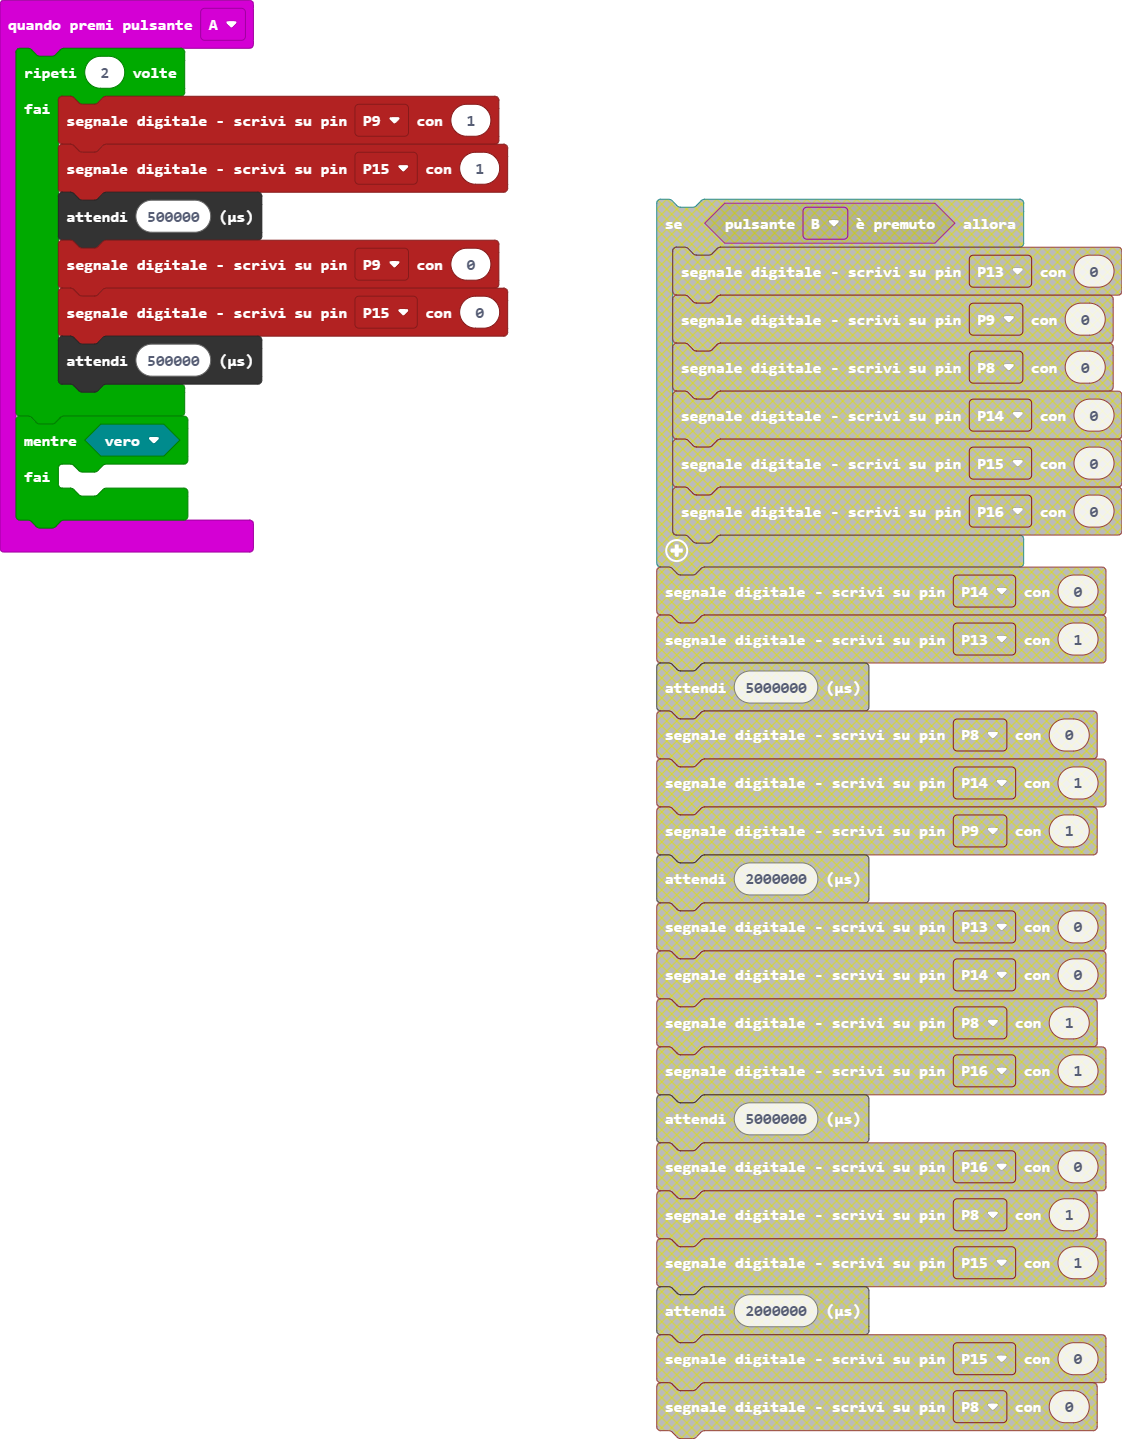
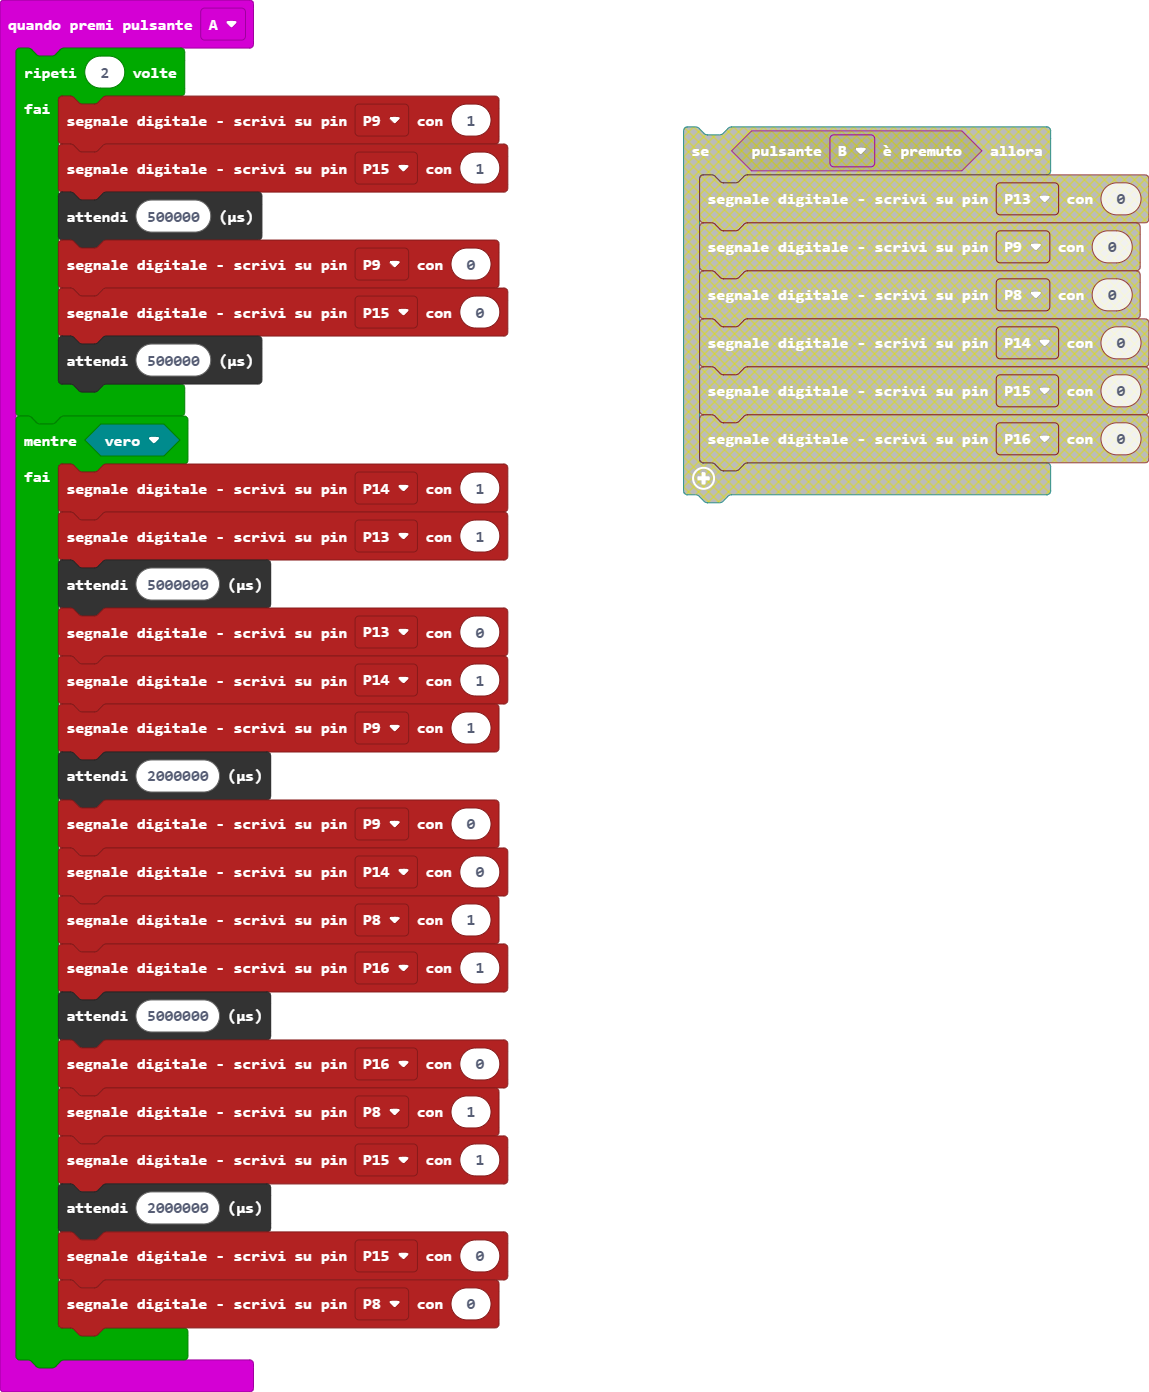
TL-NO-overlap-NO-buttons

diff --git a/main.ts b/main.ts
@@ -8,6 +8,23 @@ input.onButtonPressed(Button.A, function () {
         control.waitMicros(500000)
     }
     while (true) {
-    	
+        pins.digitalWritePin(DigitalPin.P14, 1)
+        pins.digitalWritePin(DigitalPin.P13, 1)
+        control.waitMicros(5000000)
+        pins.digitalWritePin(DigitalPin.P13, 0)
+        pins.digitalWritePin(DigitalPin.P14, 1)
+        pins.digitalWritePin(DigitalPin.P9, 1)
+        control.waitMicros(2000000)
+        pins.digitalWritePin(DigitalPin.P9, 0)
+        pins.digitalWritePin(DigitalPin.P14, 0)
+        pins.digitalWritePin(DigitalPin.P8, 1)
+        pins.digitalWritePin(DigitalPin.P16, 1)
+        control.waitMicros(5000000)
+        pins.digitalWritePin(DigitalPin.P16, 0)
+        pins.digitalWritePin(DigitalPin.P8, 1)
+        pins.digitalWritePin(DigitalPin.P15, 1)
+        control.waitMicros(2000000)
+        pins.digitalWritePin(DigitalPin.P15, 0)
+        pins.digitalWritePin(DigitalPin.P8, 0)
     }
 })
